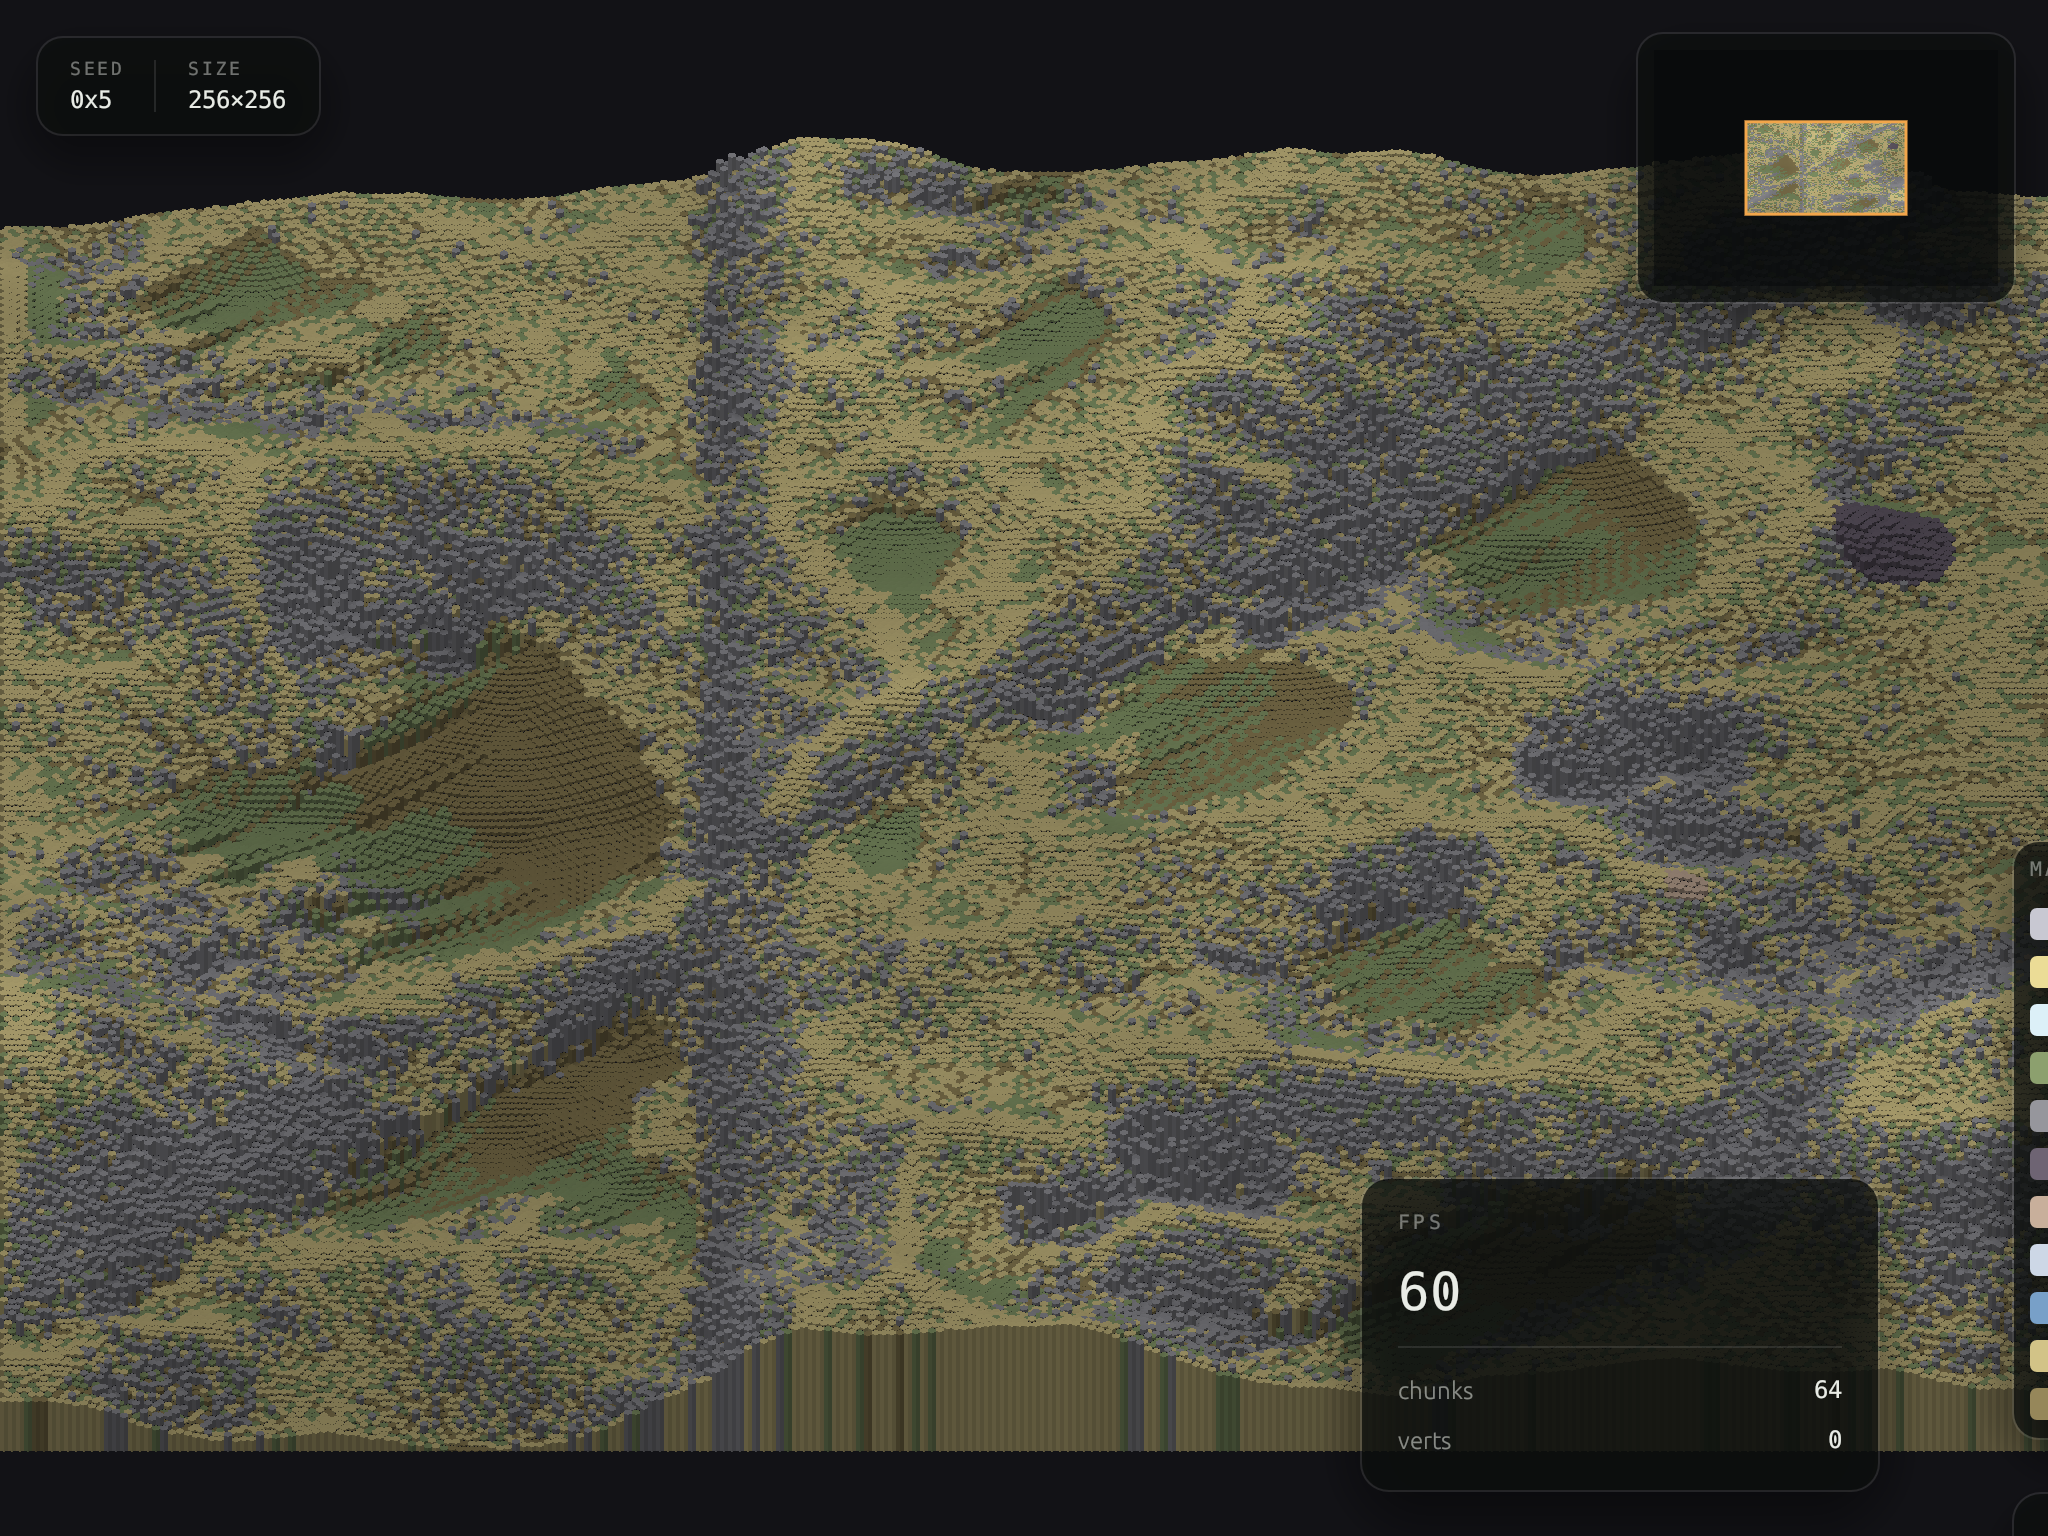
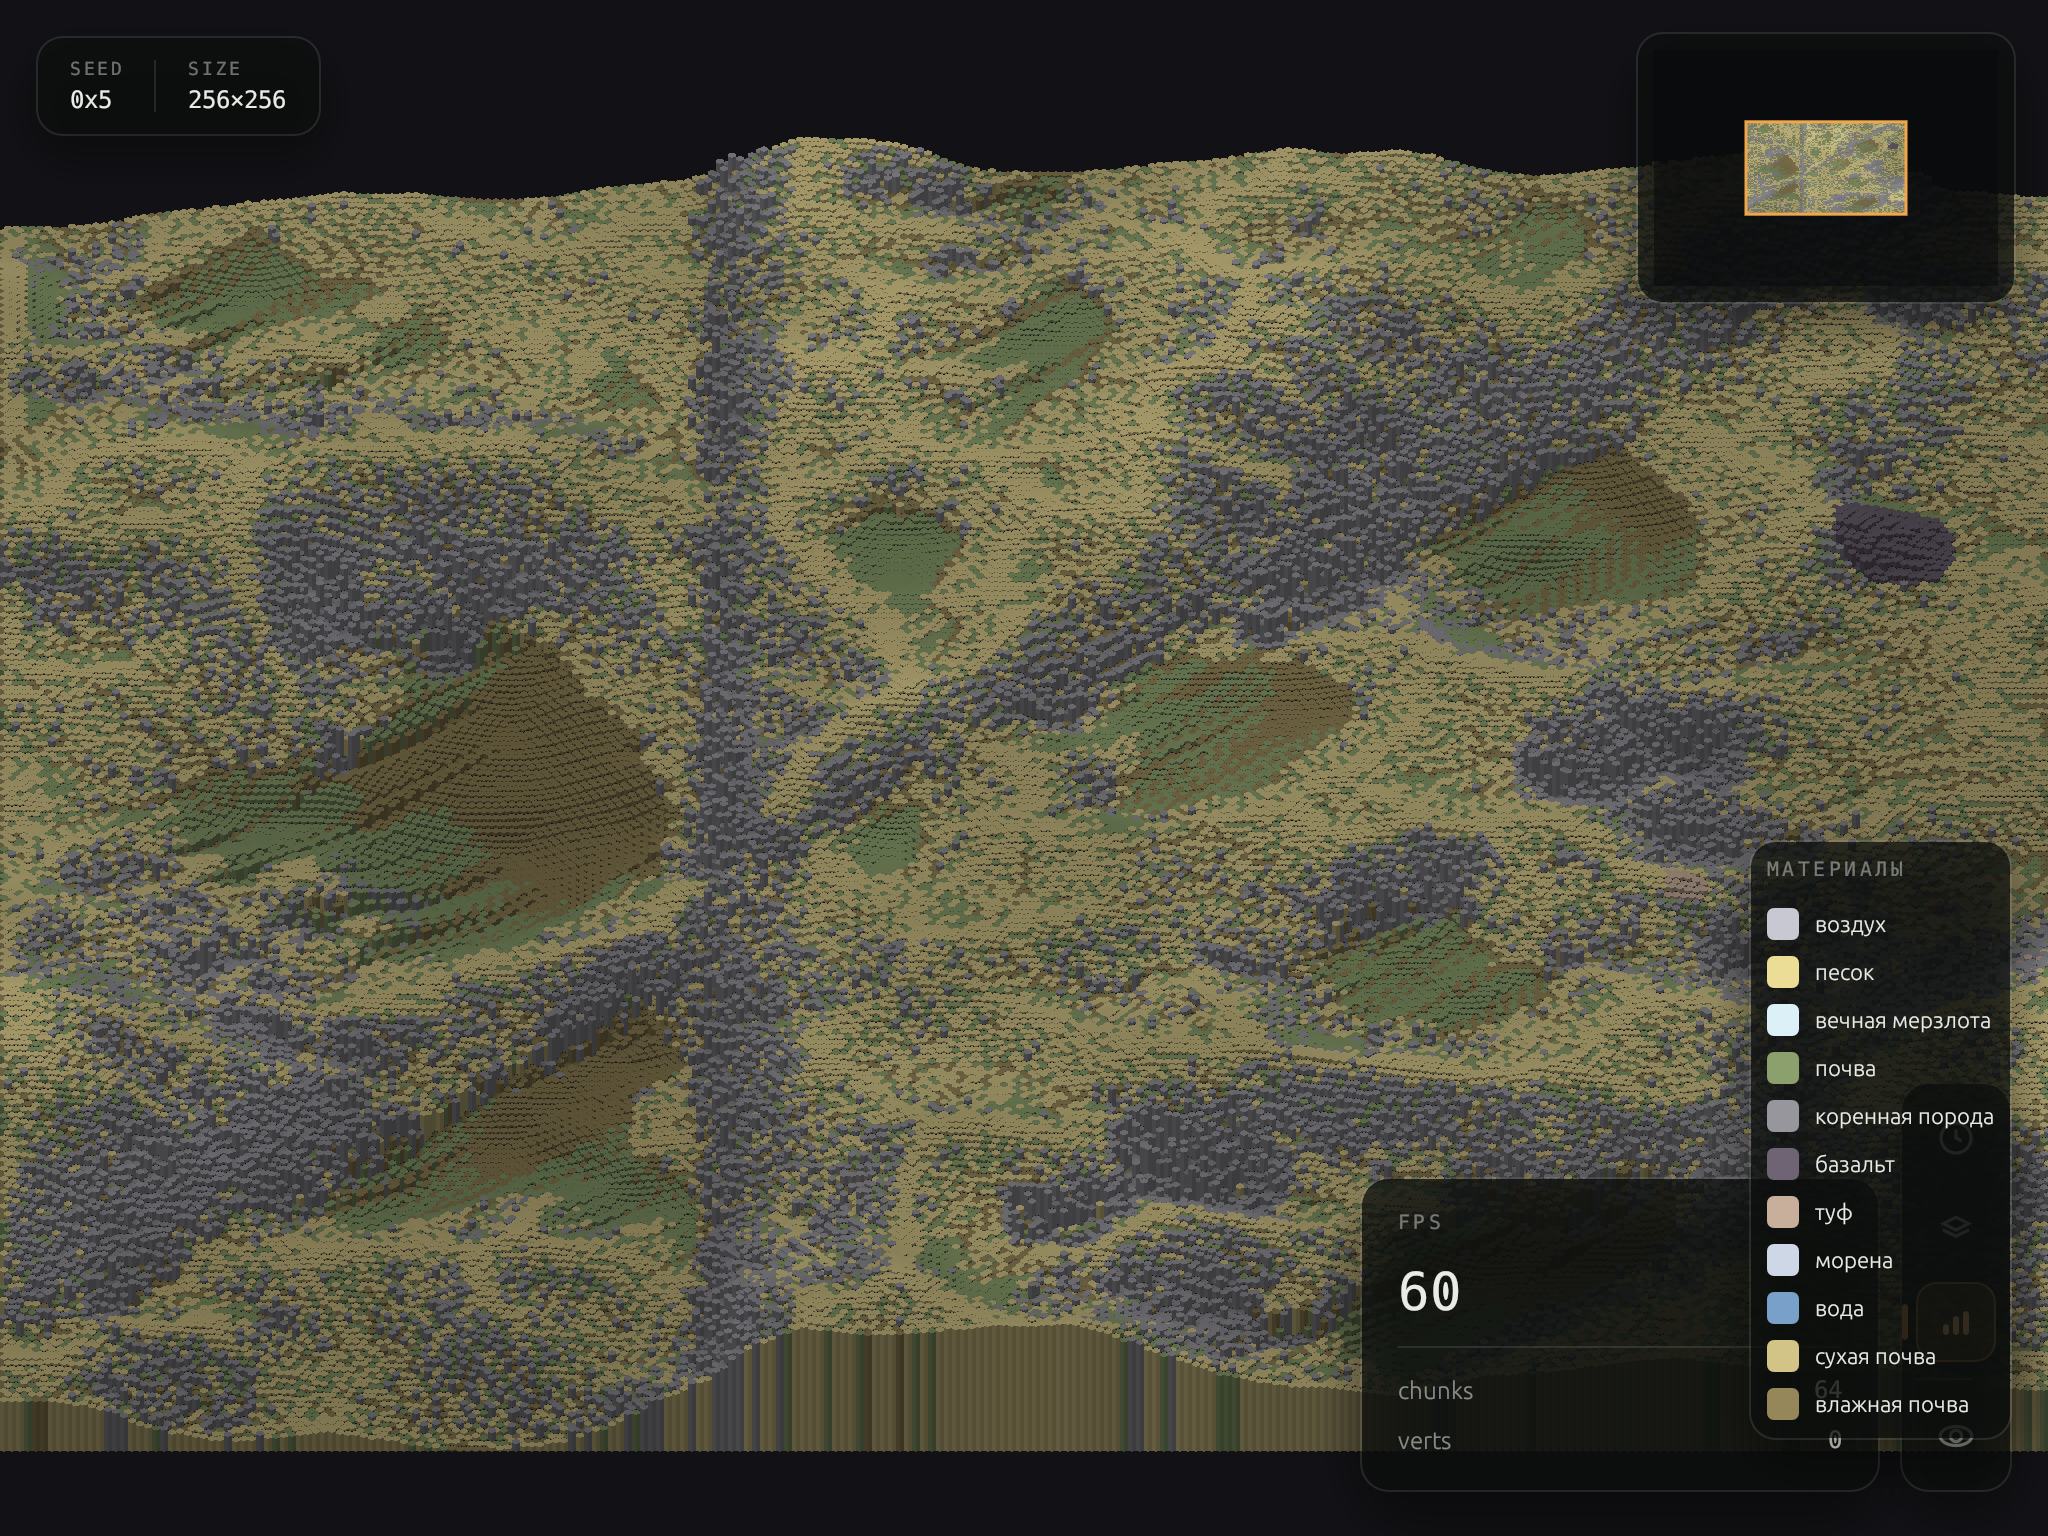
fix(ui): remove outer Area wrapper colliding with panel anchors
The outer egui::Area wrapper in UiRoot::draw (lines 183-189) was creating
collisions with each panel's inner Area when their IDs matched. This caused
the outer fixed_pos (LEFT_TOP pivot at anchor point) to override each panel's
proper anchor (RIGHT_TOP/RIGHT_BOTTOM for legend/rail, etc.).

Root cause: LegendPanel and ControlRail both had id()="legend"/"rail" matching
their inner Area IDs, triggering egui's state collision. The outer wrapper's
fixed_pos then pinned panels at wrong positions (legend's LEFT edge at
screen_right-18, rail hanging off bottom-right).

Fix: Remove the outer Area wrapper entirely. Each panel already creates and
anchors its own Area correctly (MinimapPanel proves the pattern works).
Delete the now-unused Anchor enum and Panel::anchor() trait method.

Verification: All panels now render fully visible and correctly positioned.
- Legend: RIGHT_TOP at (−18, 420) ✓
- ControlRail: RIGHT_BOTTOM at (−18, −22) ✓
- VitalsPanel: LEFT_TOP at (18, 18) ✓
- TransportPanel: LEFT_BOTTOM at (18, −22) ✓
- MinimapPanel: RIGHT_TOP at (−16, 16) ✓

Claude-Session: https://claude.ai/code/session_01KSFzwj8cXU3wLePgNZWAra

Changed region(s): [[0.8438, 0.5312, 1.0, 0.9688]]

diff --git a/v2/crates/render/src/ui/mod.rs b/v2/crates/render/src/ui/mod.rs
@@ -21,31 +21,10 @@ pub struct UiOut {
     pub wants_keyboard: bool,
 }
 
-/// Panel: a renderable UI element with a fixed anchor point and draw callback.
+/// Panel: a renderable UI element with a draw callback.
 pub trait Panel {
     fn id(&self) -> &'static str;
-    fn anchor(&self) -> Anchor;
     fn draw(&mut self, ctx: &egui::Context, ui_ctx: &mut UiCtx);
-}
-
-/// Anchor: position of a panel on screen (LeftTop/RightTop/LeftBottom/RightBottom + offset).
-#[derive(Clone, Copy, Debug)]
-pub enum Anchor {
-    LeftTop(egui::Vec2),
-    RightTop(egui::Vec2),
-    LeftBottom(egui::Vec2),
-    RightBottom(egui::Vec2),
-}
-
-impl Anchor {
-    fn pos(&self, screen_size: egui::Vec2) -> egui::Pos2 {
-        match self {
-            Anchor::LeftTop(offset) => egui::pos2(offset.x, offset.y),
-            Anchor::RightTop(offset) => egui::pos2(screen_size.x - offset.x, offset.y),
-            Anchor::LeftBottom(offset) => egui::pos2(offset.x, screen_size.y - offset.y),
-            Anchor::RightBottom(offset) => egui::pos2(screen_size.x - offset.x, screen_size.y - offset.y),
-        }
-    }
 }
 
 /// UiCtx: read-only frame state + action sink (passed to Panel::draw).
@@ -176,16 +155,7 @@ impl UiRoot {
         // Draw regular panels only if visible
         if self.panels_visible {
             for panel in &mut self.panels {
-                let anchor = panel.anchor();
-                let screen_size = ctx.screen_rect().size();
-                let pivot = anchor.pos(screen_size);
-
-                egui::Area::new(panel.id().into())
-                    .fixed_pos(pivot)
-                    .pivot(egui::Align2::LEFT_TOP)
-                    .show(ctx, |_| {
-                        panel.draw(ctx, ui_ctx);
-                    });
+                panel.draw(ctx, ui_ctx);
             }
         }
 
@@ -302,10 +272,6 @@ pub struct MinimapPanel;
 impl Panel for MinimapPanel {
     fn id(&self) -> &'static str {
         "minimap_panel"
-    }
-
-    fn anchor(&self) -> Anchor {
-        Anchor::RightTop(egui::vec2(16.0, 16.0))
     }
 
     fn draw(&mut self, ctx: &egui::Context, ui_ctx: &mut UiCtx) {

diff --git a/v2/crates/render/src/ui/transport.rs b/v2/crates/render/src/ui/transport.rs
@@ -1,7 +1,7 @@
 //! Transport panel (bottom-left): play/pause + step controls, sim-mode only.
 
 use egui::{RichText, Shape, Stroke, StrokeKind};
-use crate::ui::{Anchor, Panel, UiAction, UiCtx};
+use crate::ui::{Panel, UiAction, UiCtx};
 use super::theme;
 
 pub struct TransportPanel;
@@ -9,10 +9,6 @@ pub struct TransportPanel;
 impl Panel for TransportPanel {
     fn id(&self) -> &'static str {
         "transport"
-    }
-
-    fn anchor(&self) -> Anchor {
-        Anchor::LeftBottom(egui::vec2(18.0, 22.0))
     }
 
     fn draw(&mut self, ctx: &egui::Context, ui_ctx: &mut UiCtx) {

diff --git a/v2/crates/render/src/ui/vitals.rs b/v2/crates/render/src/ui/vitals.rs
@@ -1,7 +1,7 @@
 //! Vitals panel (top-left): compact always-on strip showing world seed, dim, and optionally population.
 
 use egui::{Align, Layout, RichText};
-use crate::ui::{Anchor, Panel, UiCtx};
+use crate::ui::{Panel, UiCtx};
 use super::theme;
 
 pub struct VitalsPanel;
@@ -9,10 +9,6 @@ pub struct VitalsPanel;
 impl Panel for VitalsPanel {
     fn id(&self) -> &'static str {
         "vitals"
-    }
-
-    fn anchor(&self) -> Anchor {
-        Anchor::LeftTop(egui::vec2(18.0, 18.0))
     }
 
     fn draw(&mut self, ctx: &egui::Context, ui_ctx: &mut UiCtx) {

diff --git a/v2/crates/render/src/ui/legend.rs b/v2/crates/render/src/ui/legend.rs
@@ -1,14 +1,13 @@
 //! Material legend panel: swatch + name for each material type.
 
 use egui::{Color32, RichText};
-use crate::ui::{Anchor, Panel, UiCtx};
+use crate::ui::{Panel, UiCtx};
 use super::theme;
 
 pub struct LegendPanel;
 
 impl Panel for LegendPanel {
     fn id(&self) -> &'static str { "legend" }
-    fn anchor(&self) -> Anchor { Anchor::RightTop(egui::vec2(18.0, 420.0)) }
 
     fn draw(&mut self, ctx: &egui::Context, _ui_ctx: &mut UiCtx) {
         egui::Area::new(egui::Id::new("legend"))

diff --git a/v2/crates/render/src/ui/rail.rs b/v2/crates/render/src/ui/rail.rs
@@ -1,7 +1,7 @@
 //! Control rail (bottom-right): vertical icon buttons with flyout panels.
 
 use egui::{Align, Layout, RichText, Shape, Stroke, StrokeKind};
-use crate::ui::{Anchor, Panel, UiAction, UiCtx};
+use crate::ui::{Panel, UiAction, UiCtx};
 use super::theme;
 
 #[derive(Clone, Copy, PartialEq, Eq)]
@@ -13,7 +13,6 @@ impl ControlRail { pub fn new() -> Self { ControlRail { open_panel: None } } }
 
 impl Panel for ControlRail {
     fn id(&self) -> &'static str { "rail" }
-    fn anchor(&self) -> Anchor { Anchor::RightBottom(egui::vec2(18.0, 22.0)) }
 
     fn draw(&mut self, ctx: &egui::Context, ui_ctx: &mut UiCtx) {
         egui::Area::new(egui::Id::new("rail"))

diff --git a/v2/crates/render/src/ui/toast.rs b/v2/crates/render/src/ui/toast.rs
@@ -1,7 +1,7 @@
 //! Toast and hide-hint panels.
 
 use egui::{Color32, RichText, Stroke};
-use crate::ui::{Anchor, Panel, UiCtx};
+use crate::ui::{Panel, UiCtx};
 use super::theme;
 
 #[derive(Default)]
@@ -12,7 +12,6 @@ impl ToastPanel { pub fn new() -> Self { ToastPanel { state: ToastState::default
 
 impl Panel for ToastPanel {
     fn id(&self) -> &'static str { "toast" }
-    fn anchor(&self) -> Anchor { Anchor::LeftTop(egui::vec2(0.0, 0.0)) }
 
     fn draw(&mut self, ctx: &egui::Context, _ui_ctx: &mut UiCtx) {
         self.state.elapsed_ms += 16.0;